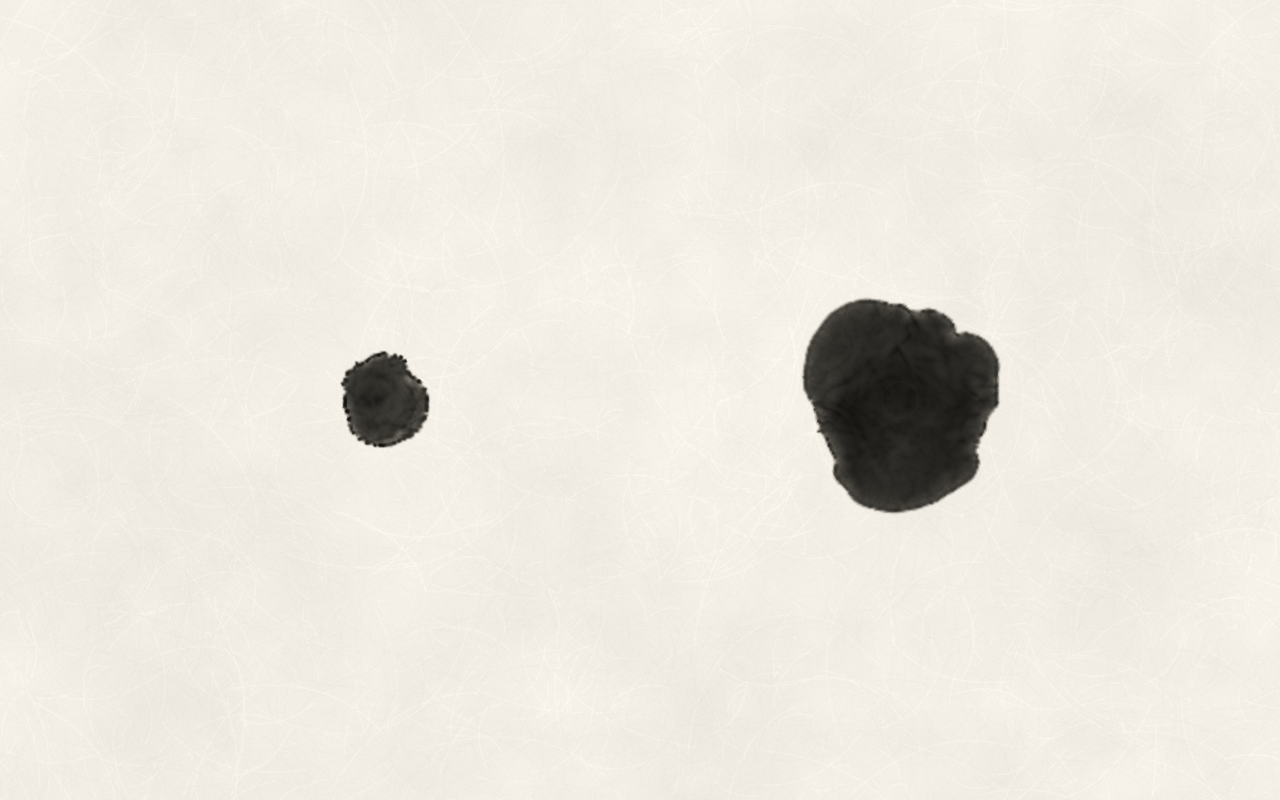
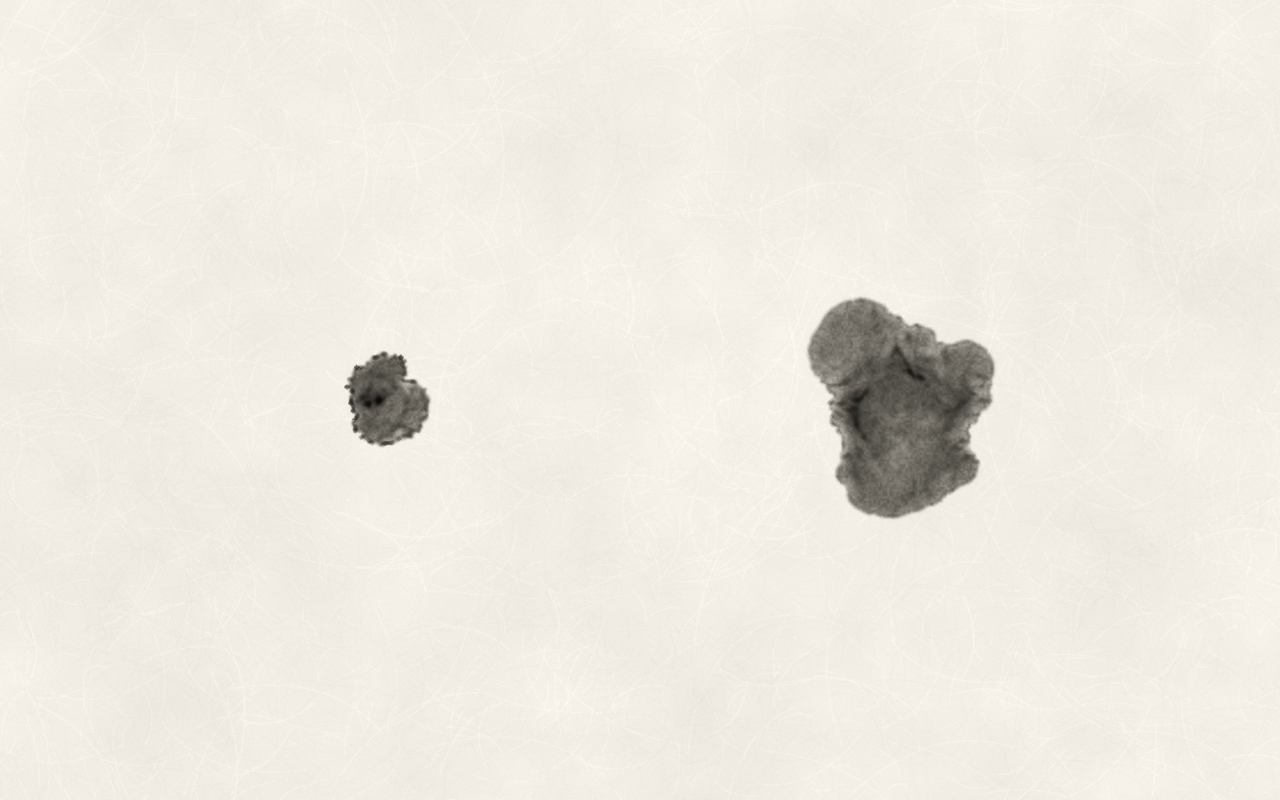
Tusche: lobed blooms (absorbency² mobility), backrun fixing window, band-passed rims, evidence screenshots, UI check, README
Claude-Session: https://claude.ai/code/session_01SSkA1b3UV4eDRsiMoVk936

Changed region(s): [[0.625, 0.375, 0.7812, 0.6562], [0.25, 0.4375, 0.3438, 0.5625]]

diff --git a/tusche/_source/src/index.html b/tusche/_source/src/index.html
@@ -201,9 +201,10 @@ float flux(vec4 a, vec4 b, vec4 pa, vec4 pb, float da, float db) {
   float d = a.a - b.a;
   bool fw = d > 0.;
   float ws = fw ? a.a : b.a, wd = fw ? b.a : a.a, dd = fw ? db : da, th = fw ? pb.g : pa.g;
-  th *= 1. - .75 * dd;                                       // damp paper wicks more readily, but still unevenly: cauliflowers
+  th *= 1. - .45 * dd;                                       // damp paper wicks more readily, but still unevenly: cauliflowers
   float gate = max(smoothstep(0., .015, wd), smoothstep(th, th + .05, ws));
-  float mob = pow(.5 * (a.a + b.a), 1.6) * min(pa.r, pb.r) * gate;
+  float ab = min(pa.r, pb.r);
+  float mob = pow(.5 * (a.a + b.a), 1.6) * ab * ab * gate;
   return min(uK * mob, .2) * d;
 }
 // pigment and metal carried with that water (metal is heavy and travels less)
@@ -240,10 +241,10 @@ void main() {
   float st = w < .01 ? clamp(uSlow * 14., 0., 1.) : clamp(uSlow * (.06 + .9 * (1. - smoothstep(0., .2, w))) * (.75 + .5 * tooth) * (.1 + 1.8 * pp.r * pp.r), 0., 1.);
   vec4 settled = sus * vec4(st, st, st, min(1., st * 3. + uSlow * .3));
   sus -= settled;
-  damp = w > .015 ? 1. : max(0., damp - uSlow * .2 * (1. + 14. * uDry));
+  damp = w > .015 ? 1. : max(0., damp - uSlow * .12 * (1. + 20. * uDry));
   vec4 L2 = l - lifted + settled;
   // the loose deposit fixes into the paper once the paper has dried out
-  vec4 fixd = L2 * clamp(uSlow * (.015 + 4. * (1. - damp)), 0., 1.);
+  vec4 fixd = L2 * clamp(uSlow * (.01 + 4. * smoothstep(.65, 1., 1. - damp)), 0., 1.);
   oS = vec4(sus.rgb, w);
   oX = vec4(sus.a, damp, 0, 0);
   oL = L2 - fixd;
@@ -334,11 +335,12 @@ void main() {
   vec2 uv = vec2(css.x / uSimPx, uSim.y - css.y / uSimPx) * tx;
   uv += vec2(pc.r - .5, (pc.r + pc.g) * .5 - .5) * tx * .8;                     // fibre jitter hides the sim's cells in the edges
   vec4 d0 = cubic(uD0, uv, uSim), d1 = cubic(uD1, uv, uSim);
+  vec4 n1 = .25 * (texture(uD0, uv + vec2(tx.x, 0)) + texture(uD0, uv - vec2(tx.x, 0)) + texture(uD0, uv + vec2(0, tx.y)) + texture(uD0, uv - vec2(0, tx.y)));
   vec4 nb = .125 * (texture(uD0, uv + vec2(tx.x * 2.2, 0)) + texture(uD0, uv - vec2(tx.x * 2.2, 0)) + texture(uD0, uv + vec2(0, tx.y * 2.2)) + texture(uD0, uv - vec2(0, tx.y * 2.2))
     + texture(uD0, uv + tx * 1.6) + texture(uD0, uv - tx * 1.6) + texture(uD0, uv + vec2(tx.x, -tx.y) * 1.6) + texture(uD0, uv - vec2(tx.x, -tx.y) * 1.6));
   float wet = smoothstep(.0, .25, d1.a);
   // dried deposits: crisp rims where a deposit stands above its surroundings, granulation in the paper's valleys
-  vec3 dep = d0.rgb + max(vec3(0), d0.rgb - nb.rgb) * 1.1 * (1. - .8 * wet);   // dried edges stand out as a crisp line
+  vec3 dep = d0.rgb + max(vec3(0), n1.rgb - nb.rgb) * 1.5 * (1. - .8 * wet);   // dried edges stand out as a crisp line
   float thin = 1. - smoothstep(.2, 2.2, dot(dep, vec3(.33)));
   dep *= mix(1., .45 + 1.1 * tooth, .55 * thin);
   vec3 Ab = dep + d1.rgb * .8;
@@ -448,7 +450,7 @@ let simPx = +Q.get('scale') || 2;                   // css px per sim cell: 2, o
 let cssW = 0, cssH = 0, dpr = 1, SW = 0, SH = 0;
 let S, X, L, T, D0, D1, P, PC, pcW = 0, pcH = 0;
 const RATE = { 2: 720, 3: 320 };                    // substeps per second (diffusion length per second matches across cell sizes)
-const KFLUX = .3;
+const KFLUX = .5;
 const PARAMS = { evap: 1, diff: .02, liftIn: 4, k: KFLUX };
 function mkSim(w, h) { const m = () => tex(w, h, SIMF); return [m(), m()]; }
 function allocSim(w, h, px) {

diff --git a/tusche/_source/README.md b/tusche/_source/README.md
@@ -1,8 +1,51 @@
-# Tusche — source (seed)
+# Tusche (No. 24) — source
 
-Seed for a new Crucible piece. **Tusche** is the greasy lithographic ink that painters lay down as fluid, painterly washes on stone.
+**Tusche** is the greasy lithographic ink painters lay down as fluid, painterly washes on stone. This is a real-time
+sumi-e watercolour: ink and water soak through simulated paper fibre on the GPU.
 
-- `prototype/index.html` is a working real-time WebGL2 watercolour sim: a porous-medium wet layer that carries pigment, darkens at the edges as it dries, settles pigment into a stain layer, and follows paper-fibre absorbency. Click and hold to bloom, drag to stroke, 1/2/3 switch inks (sumi, vermilion, gold), shift-drag lays clear water, D dries, C clears, P plays a scripted demo (or load with `?demo`).
-- `reference/` holds an offline mock-up of the target look, painted with p5.brush. It is a style reference only; don't ship it.
+- `src/index.html` — the piece. Single self-contained file (no fonts or scripts fetched), shipped verbatim as
+  `tusche/index.html` on `main` (`sh build.sh <dir>`).
+- `prototype/` — the seed prototype the piece grew from (kept for reference; `?demo` fix applied).
+- `reference/` — offline p5.brush mock-up of the target look (reference only; never shipped).
+- `docs/PLAN.md` — the build plan.
+- `tests/` — Playwright (headless Chromium) tests and screenshot scripts; `shots/` — the evidence screenshots.
 
-Art direction from the owner: off-white paper; Japanese sumi-e brush and watercolour; blacks, reds and golds; lots of watercolour bleed; dwelling longer in one place blooms further.
+## Controls
+Hold = bloom (the longer, the wider; a ring grows while you rest) · drag = stroke (slow and loaded, or quick for dry
+brush; the brush runs out over a long stroke; pen pressure when there is one) · `1/2/3` sumi / vermilion / gold ·
+`4` or `W` clear water (or shift-drag) · `[ ]` size · `D` hold to dry · `C` clear · `P` replay the opening ·
+`S` save PNG · `H` hide the HUD. Any click skips the opening.
+
+URL flags: `?demo` / default plays the opening, `?nodemo` skips it, `?fixed` (1/60 s per frame, tests),
+`?half` (force the RGBA16F fallback), `?scale=3` (force one-third resolution).
+
+## How it works
+Four RGBA float layers ping-ponged through one MRT pass per substep (720 substeps/s at half resolution):
+`S` suspended pigment + water, `X` suspended gold + paper dampness, `L` loose deposit, `T` fixed stain.
+- Porous-medium flow: mobility ~ water^1.6 × absorbency² — pooled water travels, thin water stalls.
+- Fronts break into *dry* paper only where the water behind beats that fibre's wicking threshold (lobed,
+  wandering edges, fibre hairs); damp paper is easier but still uneven (cauliflowers).
+- Pigment rides the flux and diffuses through shared water (wet-in-wet); evaporation is fastest at thin edges
+  (edge darkening); it settles to `L`, which *dilute* inflow lifts again (backruns) and which fixes into `T` once
+  the paper has dried out.
+- Half-float fallback runs the slow terms (evaporation, settling, fixing) once a frame so they don't round away.
+- The sim never shrinks on resize (a smaller window shows part of the sheet); growth and resolution changes
+  re-sample the layers. Adaptive: if the median frame is > 21 ms over the first 2 s it drops to one-third resolution.
+- Render: paper × exp(−absorbance) with saturation, B-spline-filtered sim fields with fibre jitter, granulation,
+  a band-passed dried rim, and gold as an opaque ochre/leaf body colour with a soft light-dependent sheen (the light
+  drifts with the cursor).
+
+## Tuning (in `src/index.html`)
+- `KFLUX` (0.5) — how far water travels; `RATE` — substeps per second per resolution.
+- `INKS` — absorbance per ink (`abs`), strength (`load`), gold `metal` amount.
+- `PARAMS.evap` / `diff` / `liftIn` — drying speed, wet-in-wet feathering, backrun strength.
+- In `makePaperSim`: `cloud` / `lump` scales and contrast — how lobed blooms get; fibre strength `fib`.
+- In `brushFrame`: hold water `* 6` and ink `/ (1 + 1.1 * hold)` (dwell response), stroke water, `cap` (how fast the
+  brush runs dry), `press` (speed → width), dryness.
+
+## Tests
+`node tests/run-tests.mjs` (needs Playwright; uses `/opt/node-tools` if not installed locally). Self-containment and
+console errors, conservation with evaporation off, dwell (2 s vs 0.5 s bloom area by readPixels), long-session
+NaN check, half-float drying, resize/rescale preservation. `node tests/shots.mjs` and `tests/demoshots.mjs` make
+the screenshots. Everything waits on frame counts under `?fixed`; fps cannot be measured in the sandbox
+(SwiftShader software GL runs ~3 fps here).
